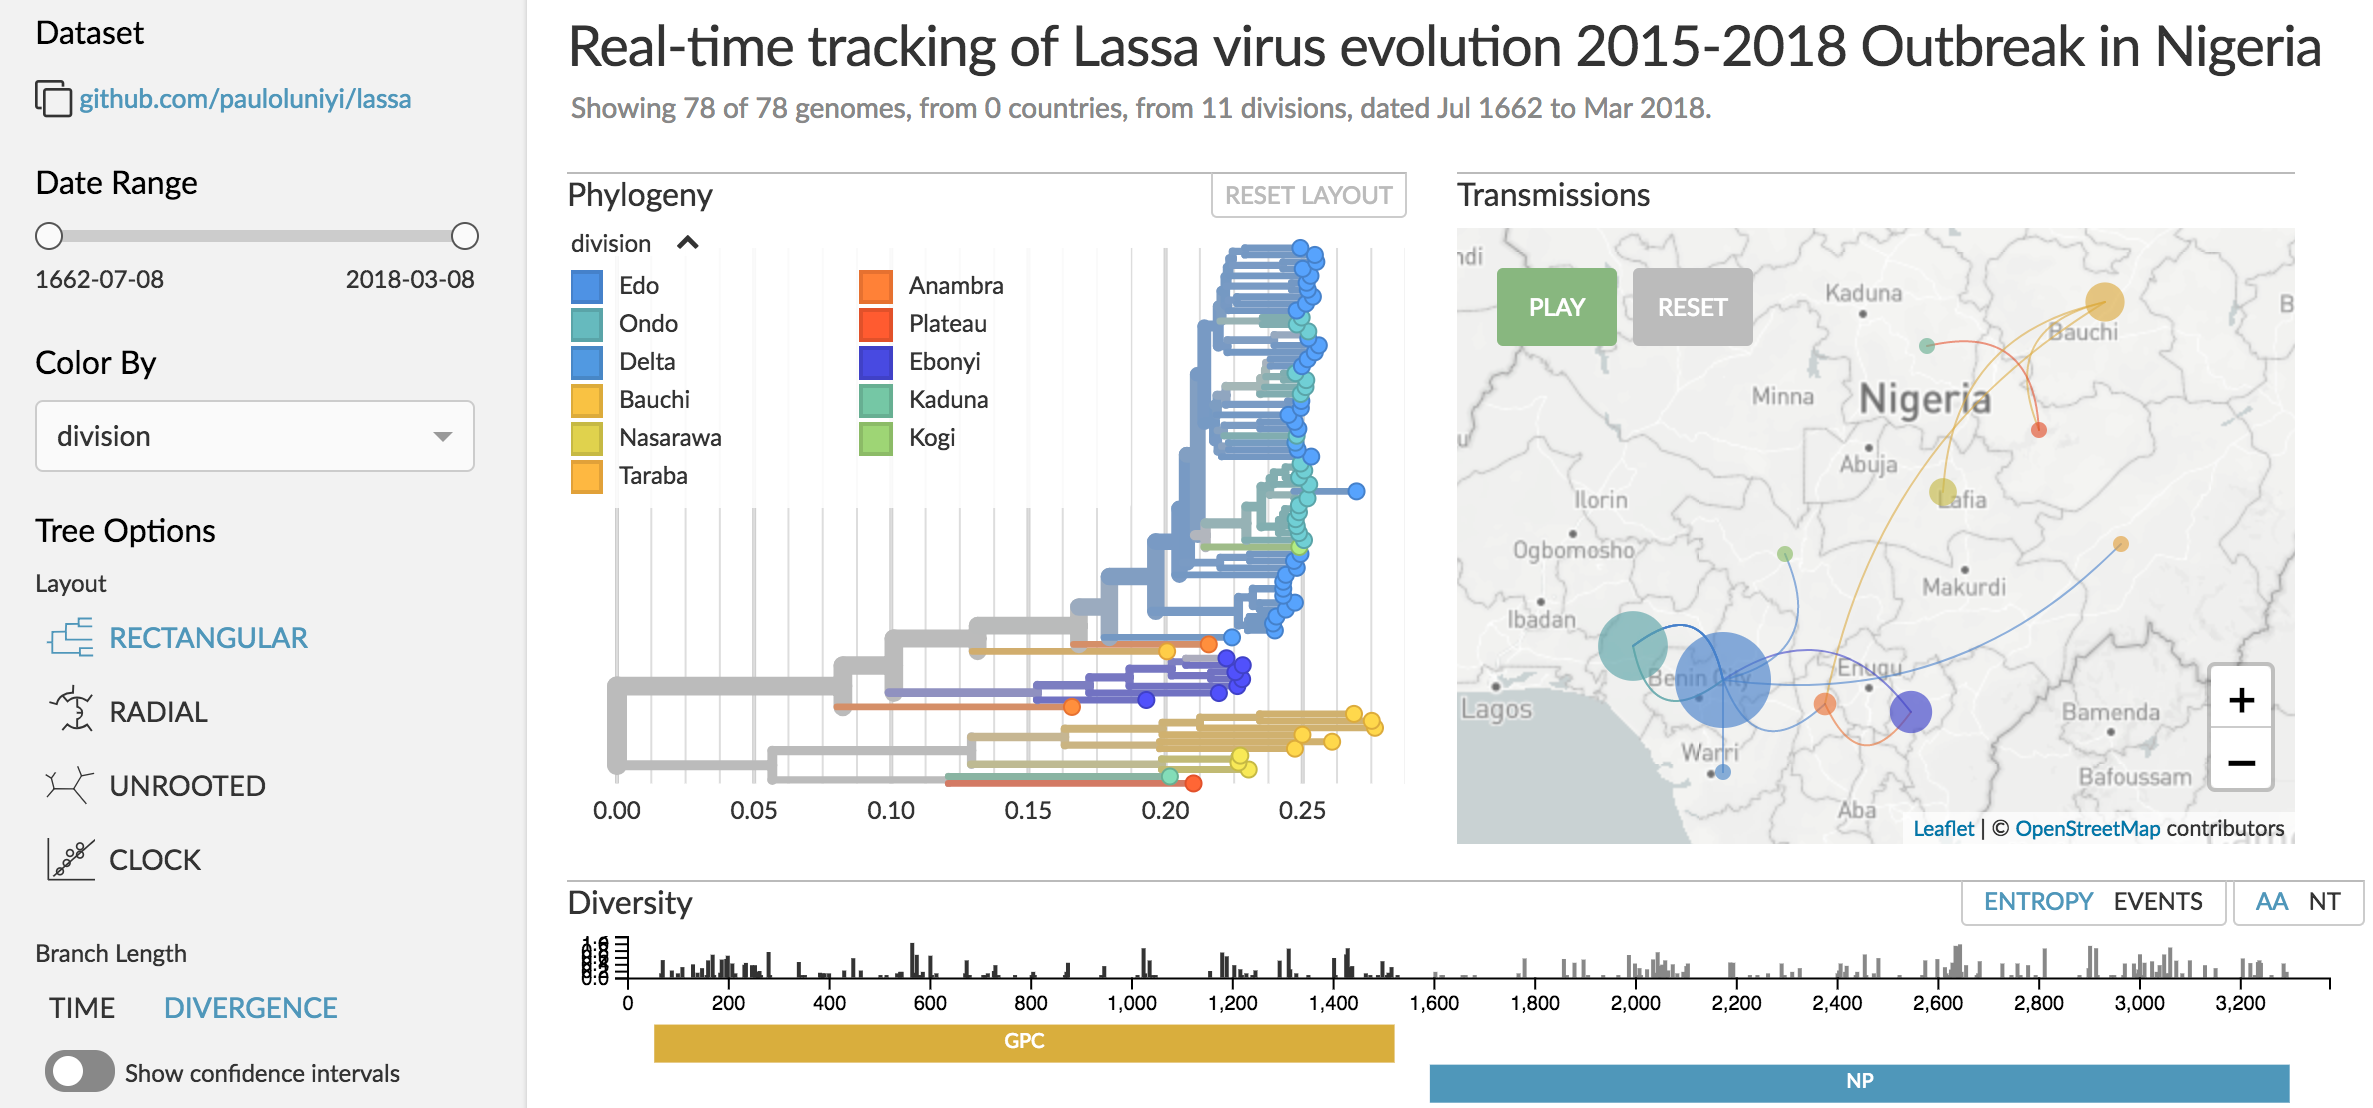
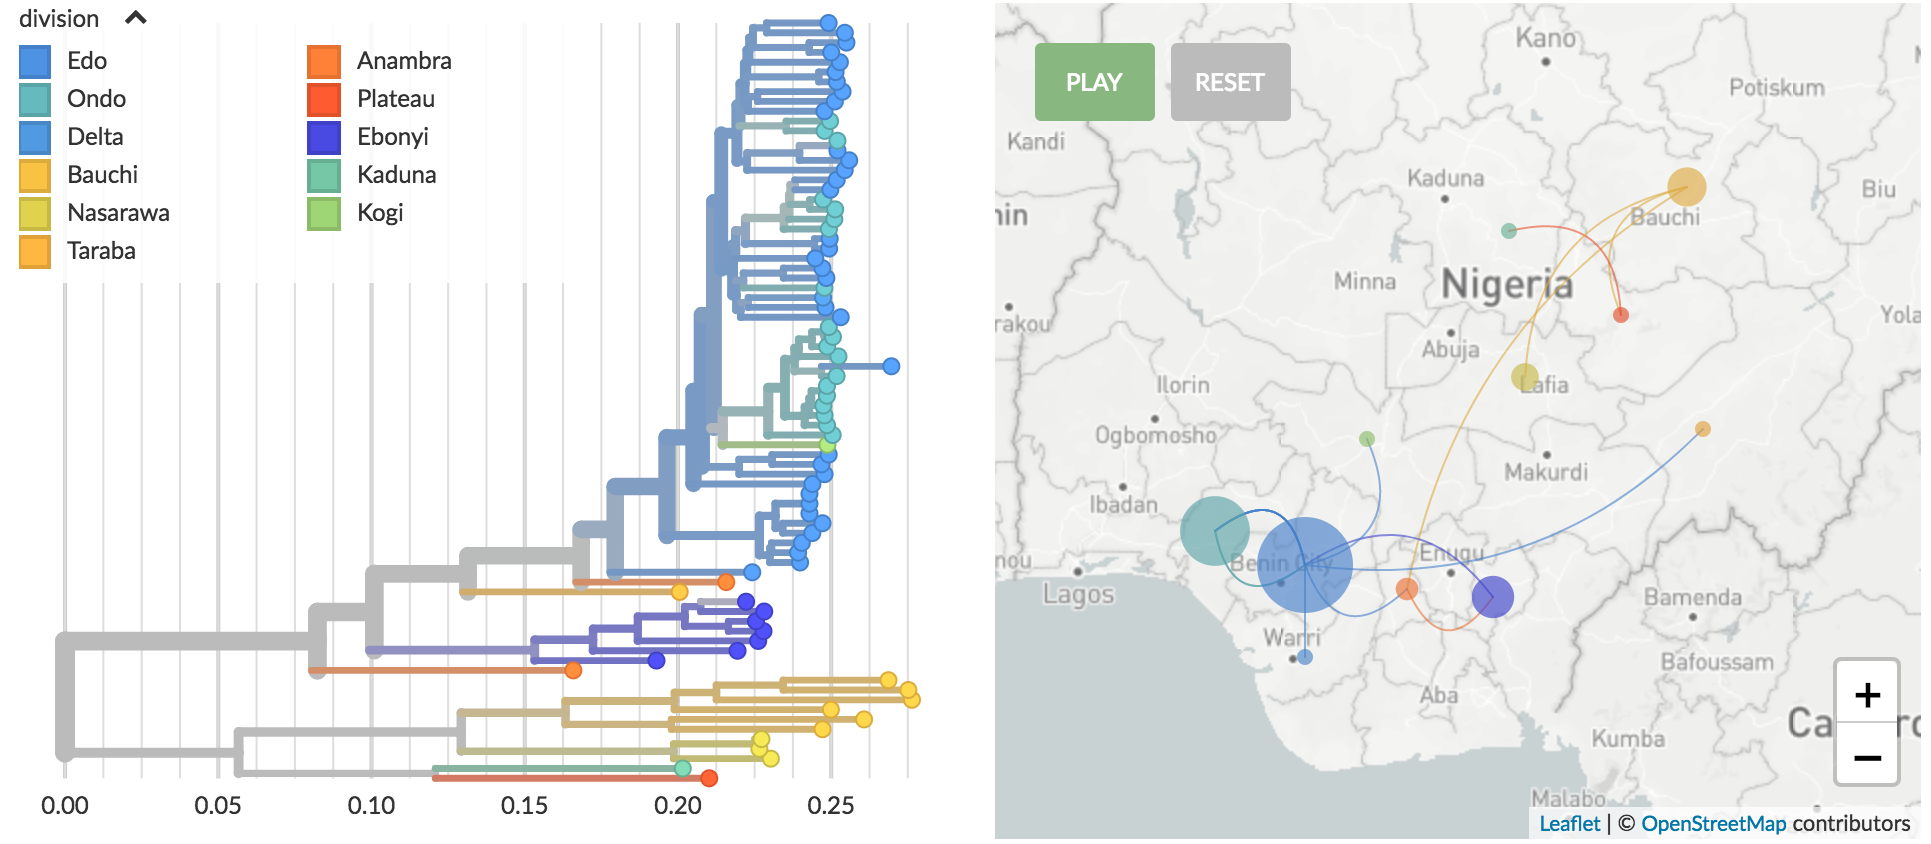
Update ICEID talk

diff --git a/talks/_posts/2018-08-27-real-time-surveillance-iceid.html b/talks/_posts/2018-08-27-real-time-surveillance-iceid.html
@@ -118,7 +118,7 @@ author: Trevor Bedford
 	<p>
 	<ul>
 		<li>First identified in Saudi Arabia in 2012</li>
-		<li>2220 confirmed cases to date and 790 deaths</li>
+		<li>2229 confirmed cases to date and 791 deaths</li>
 		<li>Camels thought to be the intermediate host</li>
 		<li>30% of common colds due to endemic human coronaviruses</li>
 	</ul>
@@ -516,8 +516,8 @@ author: Trevor Bedford
 
 <section>
 	<h3>Nextstrain architecture</h3>
-	<p>Two central aims: (1) <i>rapid and flexible phylodynamic analysis</i> and <br> (2) <i>interactive visualization</i></p>
 	<p>All code open source at <a class="off" href="https://github.com/nextstrain">github.com/nextstrain</a></p>
+	<p>Two central aims: (1) <i>rapid and flexible phylodynamic analysis</i> and <br> (2) <i>interactive visualization</i></p>
 	<img class="stretch" src="/images/talks/nextstrain_components.png">
 </section>
 
@@ -540,7 +540,7 @@ author: Trevor Bedford
 		<ul>
 			<li>Modules called via <code>augur filter</code>, <code>augur tree</code>, <code>augur traits</code>, etc...
 			<li>Designed to be composable across pathogen builds</li>
-			<li>Uses Snakemake to define a pipeline, making steps obvious</li>
+			<li>Defined pipeline, making steps obvious</li>
 			<li>Provides dependency graph for fast recomputation</li>
 			<li>Pathogen-specific repos give users an obvious foundation to build from</li>
 		</ul>
@@ -631,8 +631,23 @@ author: Trevor Bedford
 
 <section>
 	<h3>Genomic epidemiology of Lassa virus in Nigeria</h3>
-	<p>Data and builds courtesy of Paul Oluniyi, Christian Happi and ACEGID at Redeemer’s University</p>
+	<p>Data and builds courtesy of Paul Oluniyi, Christian Happi and ACEGID at Redeemer's University</p>
 	<img class="stretch" src="/images/talks/nextstrain_demo_lassa_nigeria.png">
+</section>
+
+<section>
+	<h3>Stable clustering by geography</h3>
+	<img class="stretch" src="/images/talks/nextstrain_demo_lassa_nigeria_timetree.png">
+</section>
+
+<section>
+	<h3>Recent "outbreak" originates from a diverse group of viruses</h3>
+	<img class="stretch" src="/images/talks/nextstrain_demo_lassa_nigeria_colorby_date.png">
+</section>
+
+<section>
+	<h3>Page live at nextstrain.org/community/pauloluniyi/lassa/s</h3>
+	<img class="stretch" src="/images/talks/nextstrain_demo_lassa_nigeria_live.png">
 </section>
 
 <section>
@@ -675,8 +690,8 @@ author: Trevor Bedford
 	Julien Thézé, Jaquilene de Jesus, Marta Giovanetti, Moritz Kraemer, Sarah Hill, Allison Black,
 	Ester Sabino, Luiz Alcantara</p>
 
-	<p class="tiny"><b>Nextstrain</b>: Richard Neher, James Hadfield, Colin Megill, Sidney Bell,
-	Charlton Callender, Barney Potter, John Huddleston, Emma Hodcroft, Tom Sibley</p>
+	<p class="tiny"><b>Nextstrain</b>: Richard Neher, James Hadfield, Emma Hodcroft, Tom Sibley,
+	Paul Oluniyi, John Huddleston, Sidney Bell, Barney Potter, Colin Megill, Charlton Callender</p>
 
 	<div class="pull-right" style="vertical-align: bottom; display: table-cell;">
 		<img width="15%" data-src="/images/talks/logo_fred_hutch_vertical.png">
